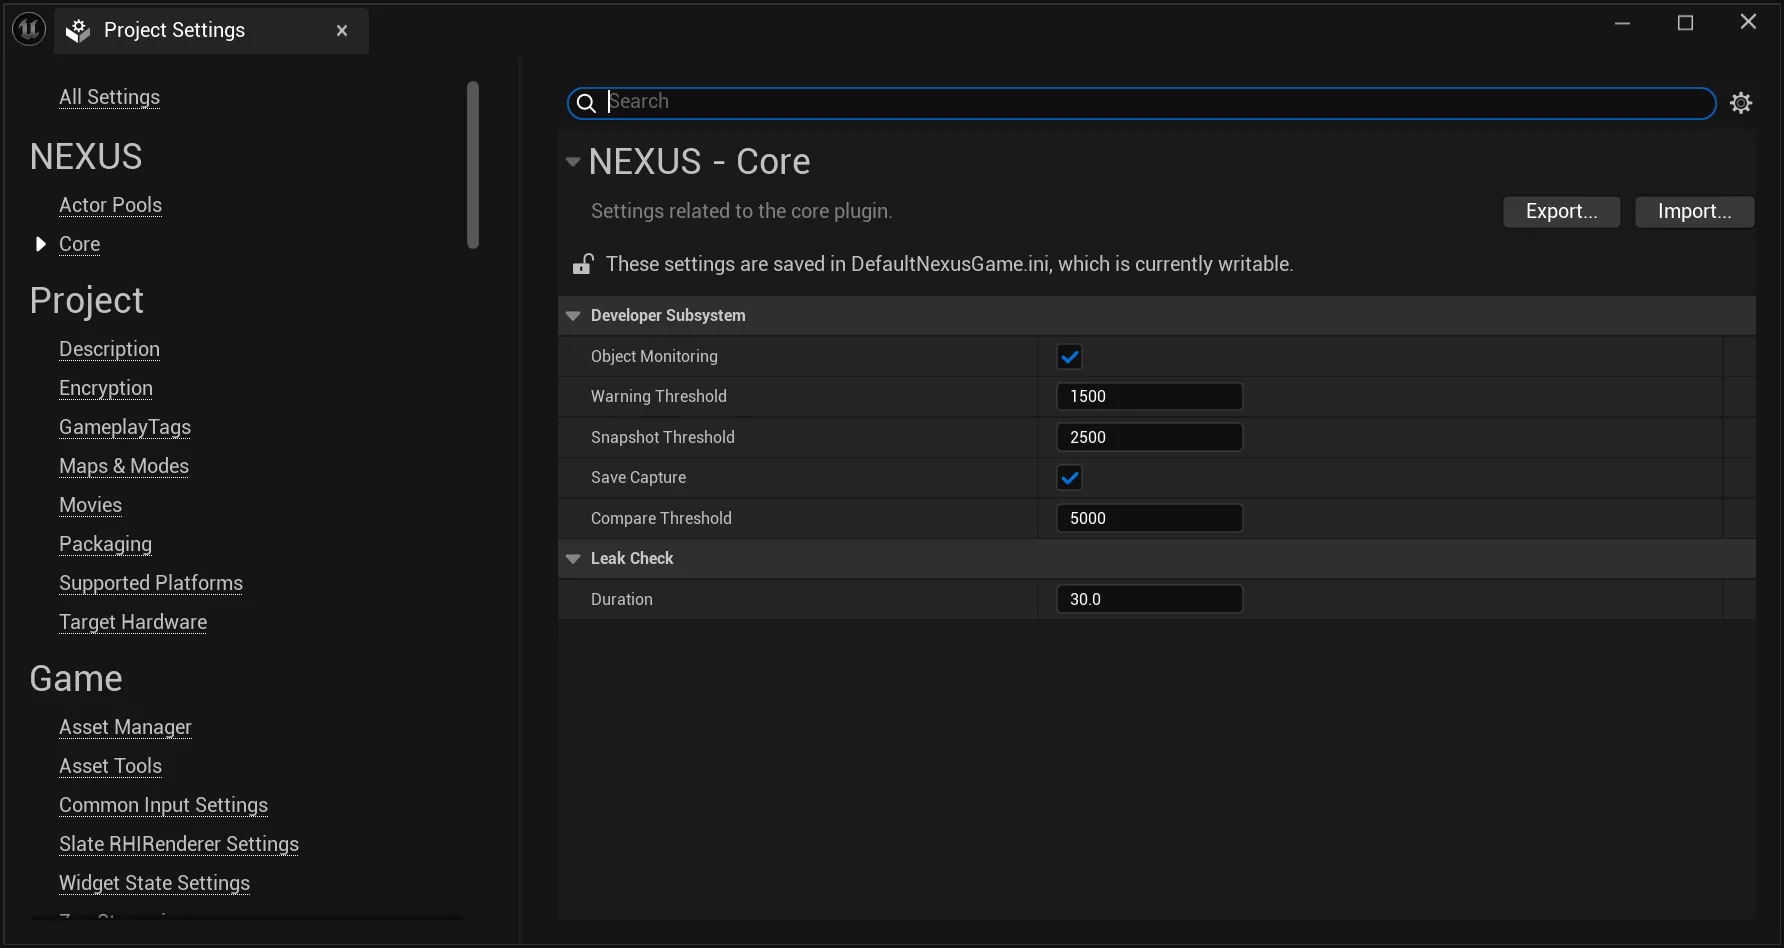
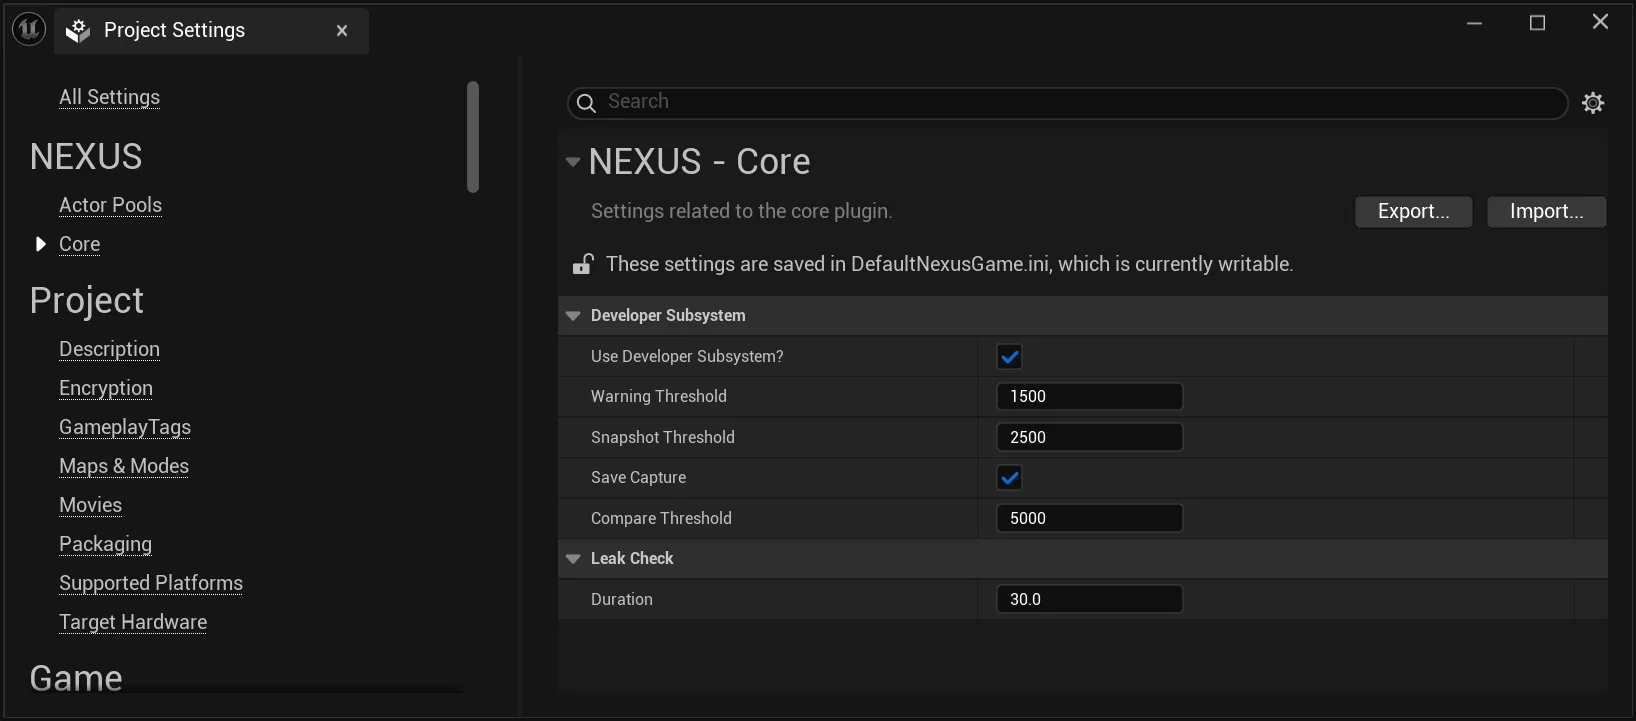
Developer Subsystem revisions

diff --git a/docs/plugins/core/types/developer-library.md b/docs/plugins/core/types/developer-library.md
@@ -24,6 +24,7 @@ Gets the current number of known `UObjects` by looking at the global `UObject` a
 UFUNCTION(BlueprintCallable, DisplayName = "Get UObject Count", Category = "NEXUS|Developer")
 static int32 GetCurrentObjectCount()
 ```
+
 ## Snapshots
 
 ### Create UObject Snapshot
@@ -58,6 +59,13 @@ static FNObjectSnapshot CreateObjectSnapshot()
 ### Create UObject Snapshot Diff
 
 Compares two already created `FNObjectSnapshots` to formulate a difference report of what changed.
+
+:::warning
+
+This process can cause a bit of a performance hit as it will itterate over potentially a large array of `FNObjectSnapshotEntry`.
+
+:::
+
 ```cpp
 UFUNCTION(BlueprintCallable, DisplayName = "Create UObject Snapshot Diff", Category = "NEXUS|Developer")
 static FNObjectSnapshotDiff CreateSnapshotDiff(const FNObjectSnapshot& OldSnapshot, const FNObjectSnapshot& NewSnapshot, const bool bRemoveKnownLeaks = false)
@@ -67,58 +75,73 @@ static FNObjectSnapshotDiff CreateSnapshotDiff(const FNObjectSnapshot& OldSnapsh
 
 Get an output-friendly `FString` of a `FNObjectSnapshotEntry` from a `FNObjectSnapshot`.
 
-```txt title="Example Content"
-(0) [R] [G] Name /Path	
-```
-
 ```cpp
 UFUNCTION(BlueprintCallable, DisplayName = "Get UObject Snapshot Entry Summary", Category = "NEXUS|Developer")
 static FString GetObjectSnapshotEntrySummary(const FNObjectSnapshotEntry& Entry)
 ```
 
+```txt title="Snapshot Entry Line"
+(0) [R] [G] Package /Script/DeveloperSettings
+```
+
+| Reference Count | Is Root Set? | Is Flagged For GC? | FullName |
+|:--|:-:|:-:|:--|
+|(0) | [R] | [G] | Package /Script/DeveloperSettings |
+
+:::info
+
+The *Reference Count* does not always seem to be accurate as polled from the `UObject`, and the *FullName* is replaced with the `FName` if the `UObject` is no longer valid.
+
+:::
+
 ### Get UObject Snapshot Summary
 
 Get an output-friendly `FString` that summarizes the contents of a `FNObjectSnapshot`.
-
-```txt title="Example Content"
-Captured %i Objects (%i Untracked)
-```
 
 ```cpp
 UFUNCTION(BlueprintCallable, DisplayName = "Get UObject Snapshot Summary", Category = "NEXUS|Developer")
 static FString GetObjectSnapshotSummary(const FNObjectSnapshot& Snapshot)
 ```
 
+```txt title="Example Content"
+Captured %i Objects (%i Untracked)
+```
+
 ### Get UObject Snapshot Detailed Summary
 
 Get an output-friendly `FString` that contains a list of all `FNObjectSnapshotEntry` in a formatted manner.
-
-```txt title="Example Content"
-Captured %i Objects (%i Untracked)
-...
-```
 
 ```cpp
 UFUNCTION(BlueprintCallable, DisplayName = "Get UObject Snapshot Detailed Summary", Category = "NEXUS|Developer")
 static FString GetObjectSnapshotDetailedSummary(const FNObjectSnapshot& Snapshot)
 ```
 
+```txt title="Example Content"
+Captured %i Objects (%i Untracked)
+...
+```
+
 ### Get UObject Snapshot Diff Summary
 
 Get an output-friendly `FString` that summarizes the number of changes found in a `FNObjectSnapshotDiff`.
-
-```txt title="Example Content"
-Total %i (%i Changes | %i Previously Untracked | %i Currently Untracked) - Added %i / Maintained %i / Removed %i
-```
 
 ```cpp
 UFUNCTION(BlueprintCallable, DisplayName = "Get UObject Snapshot Diff Summary", Category = "NEXUS|Developer")
 static FString GetObjectSnapshotDiffSummary(const FNObjectSnapshotDiff& Diff)
 ```
 
+```txt title="Example Content"
+Total %i (%i Changes | %i Previously Untracked | %i Currently Untracked) - Added %i / Maintained %i / Removed %i
+```
+
 ### Get UObject Snapshot Diff Detailed Summary
 
 Get an output-friendly `FString` that contains a list of all changes found in a `FNObjectSnapshotDiff` in a formatted manner.
+
+```cpp
+UFUNCTION(BlueprintCallable, DisplayName = "Get UObject Snapshot Diff Detailed Summary", Category = "NEXUS|Developer")
+static FString GetObjectSnapshotDiffDetailedSummary(const FNObjectSnapshotDiff& Diff)
+```
 
 ```txt title="Example Content"
 Captured %i Objects (%i Changes)
@@ -131,14 +154,14 @@ Removed (%i):
 ...
 ```
 
-```cpp
-UFUNCTION(BlueprintCallable, DisplayName = "Get UObject Snapshot Diff Detailed Summary", Category = "NEXUS|Developer")
-static FString GetObjectSnapshotDiffDetailedSummary(const FNObjectSnapshotDiff& Diff)
-```
-
 ### Output Snapshot To Log
 
 Simple way to output the contents of a `FNOjectSnapshotDiff` to `LogNexus`.
+
+```cpp
+UFUNCTION(BlueprintCallable, DisplayName = "Output Snapshot To Log", Category = "NEXUS|Developer")
+static void DumpSnapshotDiffToLog(const FNObjectSnapshotDiff& Diff)
+```
 
 ```txt title="Example Log Output"
 [FNObjectSnapshotDiff::DumpToLog] Captured %i Objects (%i Changes)
@@ -149,9 +172,4 @@ Maintained (%i)
 ...
 Removed (%i):
 ...
-```
-
-```cpp
-UFUNCTION(BlueprintCallable, DisplayName = "Output Snapshot To Log", Category = "NEXUS|Developer")
-static void DumpSnapshotDiffToLog(const FNObjectSnapshotDiff& Diff)
 ```

diff --git a/docs/plugins/core/types/developer-subsystem.md b/docs/plugins/core/types/developer-subsystem.md
@@ -2,7 +2,7 @@
 sidebar_position: 2
 sidebar_label: Developer Subsystem
 sidebar_class_name: type ue-world-subsystem
-description: A management subsystem to monitor object usage/counts and capture and compare when triggered.
+description: A developer-focused subsystem to help monitor specific metrics related to UObject usage.
 tags: [0.2.0]
 ---
 
@@ -14,15 +14,19 @@ import TabItem from '@theme/TabItem';
 
 <TypeDetails icon="ue-world-subsystem" base="UTickableWorldSubsystem" type="UNDeveloperSubsystem" typeExtra="" headerFile="NexusCore/Public/Developer/NDeveloperSubsystem.h" />
 
-A management subsystem to monitor object usage/counts and capture and compare when triggered.
+A developer-focused subsystem to help monitor specific metrics related to `UObject` usage.
+
+## Snapshots
+
+Over the course of a game's development, there comes a point where you start to wonder, _do I have a leak?_ While there are many great tools included with the **Unreal Engine** — we are looking at you [Insights](https://dev.epicgames.com/documentation/en-us/unreal-engine/unreal-insights-in-unreal-engine)! Sometimes you _just_ want to go old-school and `printf` everything to a log. _We have you covered!_
 
 :::tip
 
-You do not need the automatic checking of this system! You can use `N.Developer.CacheSnapshot` and the `N.Developer.CompareSnapshot` console commands to create your own diffs! Check out the other [console commands](../console-commands.md)!
+While the `UNDeveloperSubsystem` provides an automatic monitoring solution,  you can manually use `N.Developer.CacheSnapshot` and `N.Developer.CompareSnapshot` console commands to create your own diffs! Check out the other [console commands](../console-commands.md)!
 
 :::
 
-## Setting A Baseline
+### Setting A Baseline
 
 The automated system requires a baseline point to be effective in its calculations. Mainly because there is going to be a period where you are creating numerous `UObjects`, and you don't want the system to consider those objects in its calculation. So when you are ready for it to start watching, call the `SetBaseline()` command.
 
@@ -44,7 +48,7 @@ GetWorld()->GetTimerManager().SetTimer(SetBaselineTimerHandle, UNDeveloperSubsys
 
 | Setting | Description | Default |
 | :-- | --- | :-- |
-| Object Monitoring | Should the `UNDeveloperSubsystem` be created? This is necesary for object monitoring to occur. | `false` |
+| Use Developer Subsystem | Should the Developer Subsystem be created? It is required for `UObject` monitoring, and you still must call `UNDeveloperSubsystem::SetBaseline()`! | `false` |
 | Warning Threshold | The number of `UObjects` added after setting the baseline when a warning message will be thrown. | `25000` |
 | Snapshot Threshold | The number of `UObjects` added after after setting the baseline when a `FNObjectSnapshot` will be taken of the currnet `UObjects`. | `30000` |
 | Save Capture? | Should the `FNObjectSnapshot` captured be outputted to the project's log folder with a prefix of `NEXUS_Snapshot_*`. | `false` |
